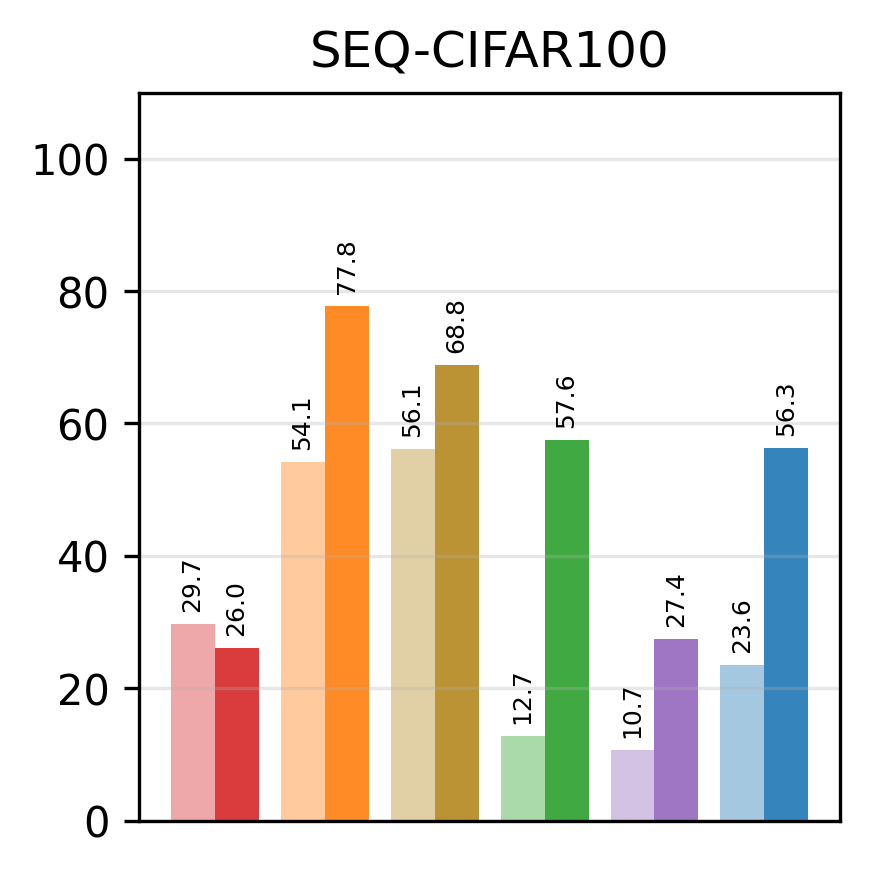
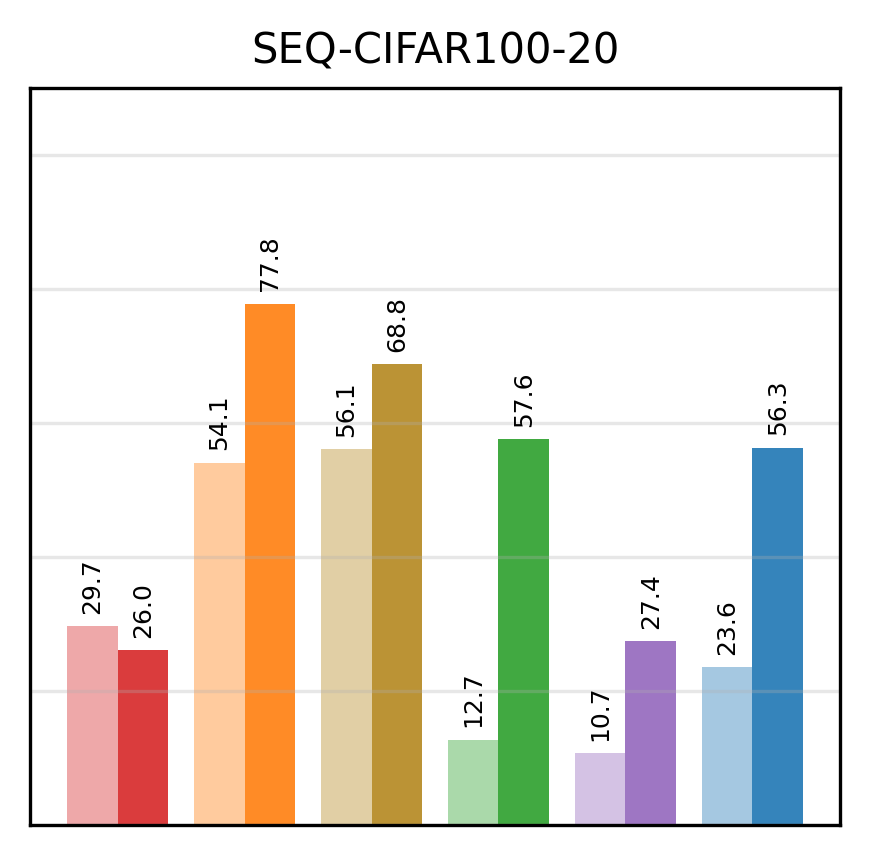
pretty stability plots

diff --git a/results_for_paper.py b/results_for_paper.py
@@ -65,6 +65,19 @@ LABEL_MAP = {
     'meta_mer': 'Meta-MER',
 }
 
+DATASET_MAP = {
+    'seq-cifar100': 'SEQ-CIFAR100-10',
+    'struct-cifar100': 'STRUCT-CIFAR100-20',
+    'seq-mnist': 'SEQ-MNIST-5',
+    'smooth-rot-mnist': 'ROT-MNIST-20',
+}
+
+def get_dataset_name(dataset: str, include_20task: bool = False) -> str:
+    """Get consistent dataset name for labeling."""
+    if include_20task and dataset == 'seq-cifar100':
+        return 'SEQ-CIFAR100-20'
+    return DATASET_MAP.get(dataset, dataset)
+
 def get_method_color(method: str, cmap=plt.cm.Dark2) -> str:
     """Get consistent color for a method."""
     # Check for exact match first
@@ -320,12 +333,15 @@ def plot_k_shot_stability(
         # ax.set_xlabel('Method')
         if dataset == 'seq-mnist':
             ax.set_ylabel(metric.capitalize() if col_idx == 0 else '')
+        if dataset != 'seq-mnist':
+            ax.yaxis.set_tick_params(length=0)
+            ax.set_yticklabels([])
         # ax.set_xticks(x_positions)
         ax.set_xticks([])
         # ax.set_xticklabels([get_method_label(m) for m in methods_with_data], 
         #                   rotation=45, ha='right', fontsize=8)
         ax.grid(True, axis='y', alpha=0.3)
-        ax.set_title(dataset.upper())
+        ax.set_title(get_dataset_name(dataset, include_20task), fontsize=10)
         
         # Set y-axis limits based on metric with extra headroom for labels
         if metric == 'accuracy':
@@ -604,7 +620,7 @@ def plot_forward_transfer(
         secax = ax.secondary_xaxis('top')
         secax.set_xticks([sum(x_current)//len(x_current), 1+sum(x_forward)//len(x_forward)], labels=["0-shot Current", f'{k_val}-shot Forward'])
         ax.axvline(x=(x_current[-1] + x_forward[0]) / 2, color='gray', linestyle=':', linewidth=1.5, alpha=0.7)
-        ax.set_title(dataset.upper())
+        ax.set_title(get_dataset_name(dataset, include_20task), fontsize=10)
         
         ax.set_ylabel(metric.capitalize() if col_idx == 0 else '')
         ax.grid(True, axis='y', alpha=0.3)
@@ -766,7 +782,8 @@ def plot_improvement(
     ncols = 1
     fig, axes = plt.subplots(nrows, ncols, figsize=(6, 5), squeeze=False)
     
-    row_titles = [f'{dataset.upper()} (Backward)', f'{dataset.upper()} (Forward)']  #['Backward\n(eval_task_id < checkpoint_num)', 
+    dataset_name = get_dataset_name(dataset, include_20task)
+    row_titles = [f'{dataset_name} (Backward)', f'{dataset_name} (Forward)']  #['Backward\n(eval_task_id < checkpoint_num)', 
                 #   'Forward\n(eval_task_id > checkpoint_num)']
     
     # Collect handles and labels for legend
@@ -832,7 +849,7 @@ def plot_improvement(
                 all_handles.append(line)
                 all_labels.append(get_method_label(method))
         
-        ax.set_title(row_title)
+        ax.set_title(row_title, fontsize=10)
         ax.set_xlabel('Checkpoint Number')
         ax.set_ylabel(metric.capitalize())
         ax.grid(True)
@@ -974,7 +991,8 @@ def plot_sauce(
     ncols = 1
     fig, axes = plt.subplots(nrows, ncols, figsize=(6, 5), squeeze=False)
     
-    row_titles = [f'{dataset.upper()} (Backward)', f'{dataset.upper()} (Forward)'] 
+    dataset_name = get_dataset_name(dataset, include_20task)
+    row_titles = [f'{dataset_name} (Backward)', f'{dataset_name} (Forward)'] 
     # row_titles = ['Backward SAUCE\n(eval_task_id < checkpoint_num)', 
     #               'Forward SAUCE\n(eval_task_id > checkpoint_num)']
     
@@ -1014,7 +1032,7 @@ def plot_sauce(
             all_handles.append(line)
             all_labels.append(get_method_label(method))
         
-        ax.set_title(row_title)
+        ax.set_title(row_title, fontsize=10)
         ax.set_xlabel('Checkpoint Number')
         ax.set_ylabel('SAUCE')
         ax.grid(True)
@@ -1214,7 +1232,7 @@ def plot_meta_improvement(
     # Determine columns to plot
     if forward_only:
         directions = ['forward']
-        col_titles = [dataset.upper()]
+        col_titles = [get_dataset_name(dataset, include_20task)]  #f'{dataset_name} (Forward)']
     else:
         directions = ['backward', 'current', 'forward']
         col_titles = ['Backward', 'Current', 'Forward']
@@ -1333,7 +1351,7 @@ def plot_meta_improvement(
         
         # ax.set_xlabel('Method Pair')
         ax.set_ylabel(metric.capitalize() if col_idx == 0 else '')
-        ax.set_title(col_title)
+        ax.set_title(col_title, fontsize=10)
         ax.set_xticks(x_positions)
         ax.set_xticklabels([get_xticklabel(p['non_meta'], p['meta']) for p in pair_data], 
                           rotation=45, ha='right', fontsize=8)
@@ -1652,7 +1670,8 @@ def compare_meta_methods(
     ncols = 1
     fig1, axes1 = plt.subplots(nrows, ncols, figsize=(6, 5), squeeze=False)
     
-    row_titles = [f'{dataset.upper()} (Backward)', f'{dataset.upper()} (Forward)']
+    dataset_name = get_dataset_name(dataset, include_20task)
+    row_titles = [f'{dataset_name} (Backward)', f'{dataset_name} (Forward)']
     
     # Plot SAUCE for each row
     for row_idx, (direction, row_title) in enumerate(zip(['backward', 'forward'], row_titles)):
@@ -1697,7 +1716,7 @@ def compare_meta_methods(
                     marker='o', markersize=2, label=get_method_label(method), 
                     color=color, linewidth=linewidth, linestyle=linestyle, alpha=alpha)
         
-        ax.set_title(row_title)
+        ax.set_title(row_title, fontsize=10)
         ax.set_xlabel('Checkpoint Number')
         ax.set_ylabel('SAUCE')
         ax.grid(True)
